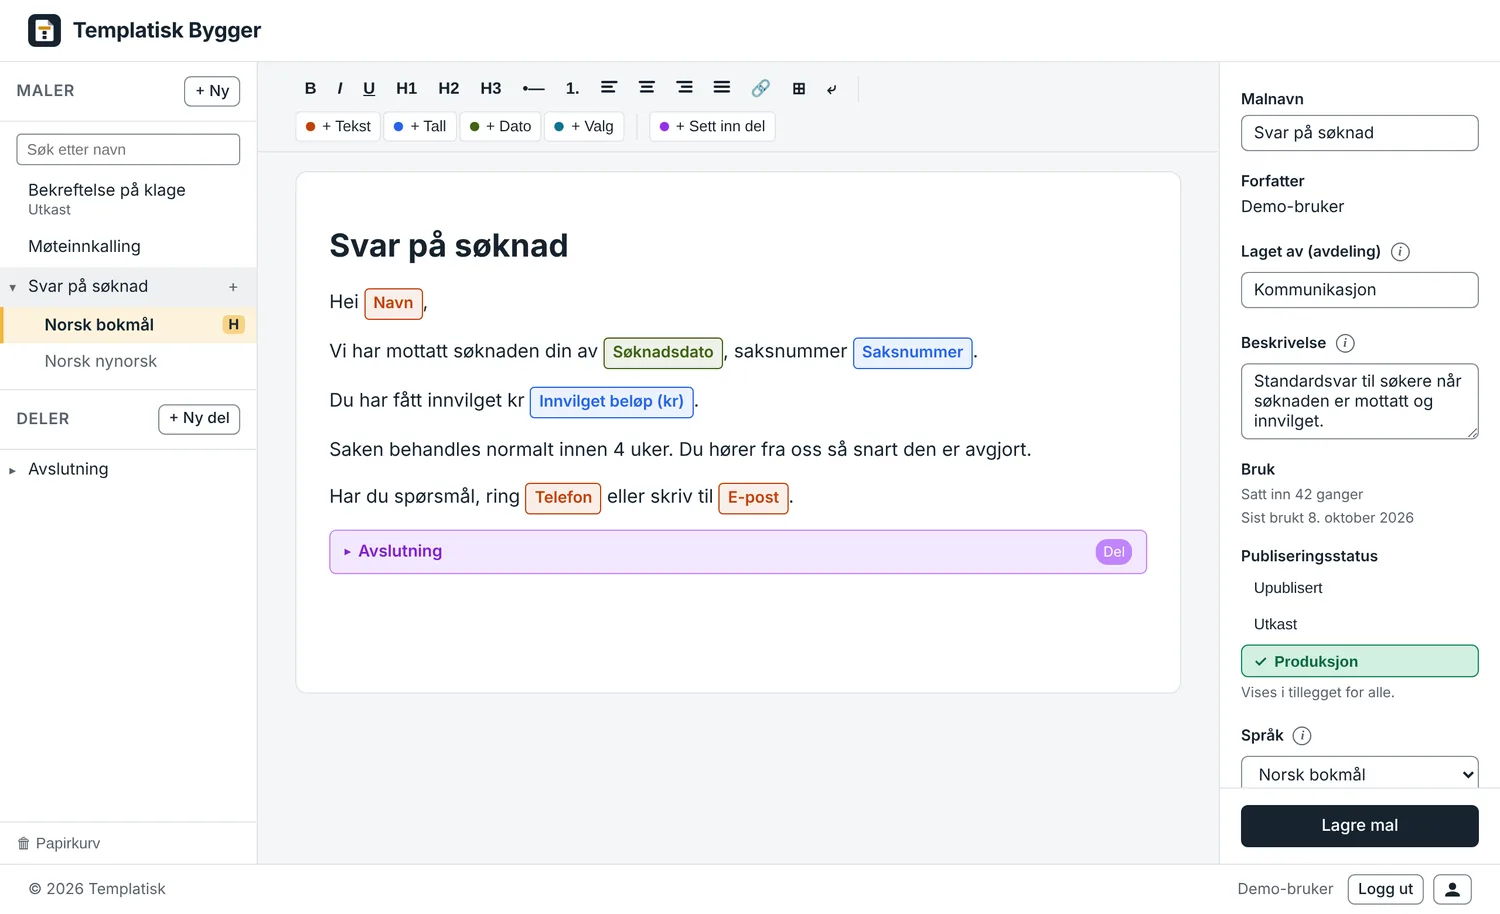
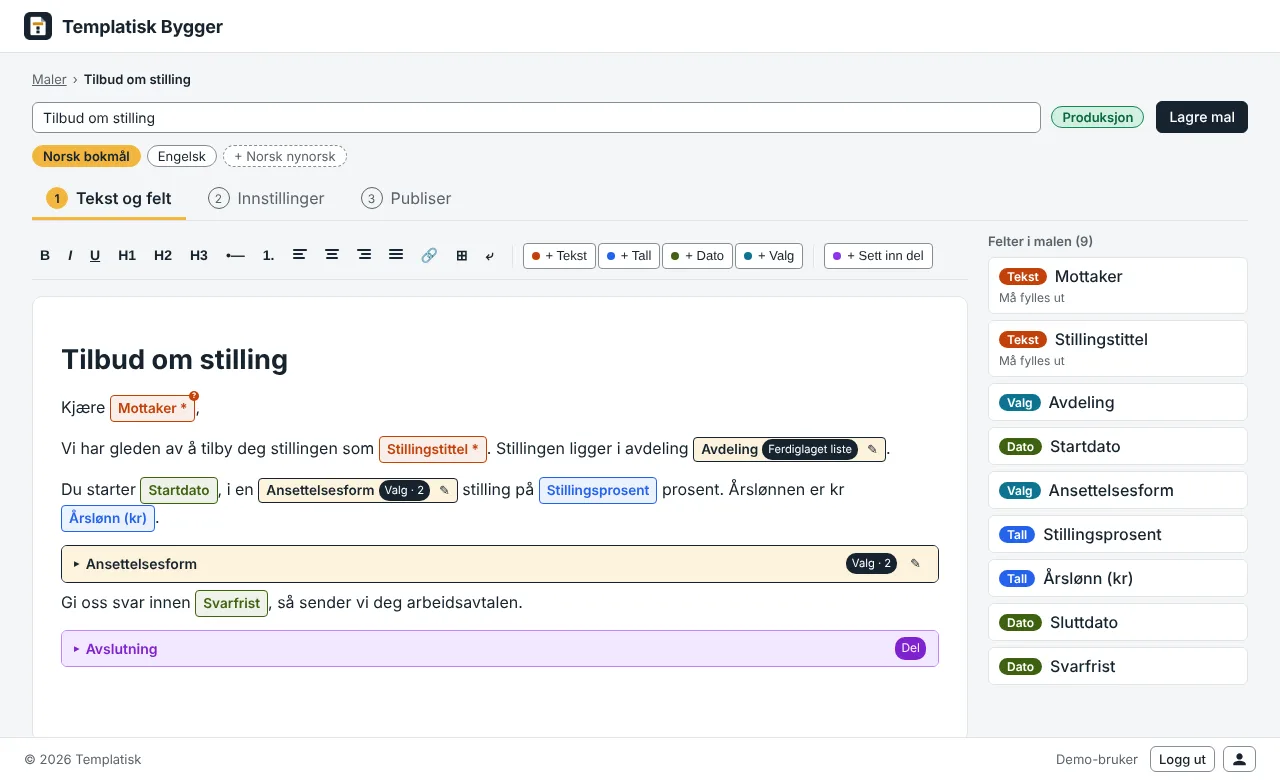
Fjern «Hva dere får», nye skjermbilder og én hero-setning mindre
Claude-Session: https://claude.ai/code/session_01QApeSyKnYLuamSbF5VTDjk

diff --git a/index.html b/index.html
@@ -62,7 +62,6 @@
             <a class="btn" href="demo/">Prøv demoen</a>
             <a class="btn ghost" href="mailto:kontakt@templatisk.no?subject=Avtal%20en%20prat%20om%20Templatisk">Avtal en prat</a>
           </div>
-          <p class="hero-note">En prat er en demo der vi prøver standardtekstene deres i Templatisk og svarer på spørsmål.</p>
         </div>
 
         <section class="mock" aria-label="Prøv selv: fyll ut feltene og sett inn teksten i dokumentet">
@@ -182,38 +181,6 @@
         <div class="step">
           <h3>Sett inn i Word eller Outlook</h3>
           <p>Saksbehandleren klikker <strong>Maler</strong> på Hjem-fanen, velger malen, fyller ut feltene og klikker <strong>Sett inn</strong>. Fungerer på PC, Mac og nett.</p>
-        </div>
-      </div>
-    </div>
-  </section>
-
-  <section class="block" id="nytte">
-    <div class="wrap">
-      <h2>Hva dere får</h2>
-      <div class="features">
-        <div class="feature">
-          <h3>Utfylling i skjema</h3>
-          <p>Påkrevde felt må fylles ut, og valglister begrenser svarene til alternativene dere har godkjent.</p>
-        </div>
-        <div class="feature">
-          <h3>Gjenbrukbare avsnitt</h3>
-          <p>Skriv et avsnitt én gang og bruk det i mange maler. Endringer oppdaterer alle malene.</p>
-        </div>
-        <div class="feature">
-          <h3>Flere språk i samme mal</h3>
-          <p>Bokmål, nynorsk og engelsk. Saksbehandleren velger språk ved innsetting.</p>
-        </div>
-        <div class="feature">
-          <h3>Roller</h3>
-          <p>Saksbehandlere setter inn maler, skribenter lager dem. Rollene styrer dere i Entra.</p>
-        </div>
-        <div class="feature">
-          <h3>Versjoner og papirkurv</h3>
-          <p>Hent fram en av de ti siste versjonene. Slettede maler havner i papirkurven.</p>
-        </div>
-        <div class="feature">
-          <h3>Hendelseslogg</h3>
-          <p>Administratorer ser hvem som har logget inn, og hvem som har endret eller slettet maler.</p>
         </div>
       </div>
     </div>

diff --git a/demo/index.html b/demo/index.html
@@ -42,11 +42,11 @@
       <div class="mobile-shots">
         <p>Slik ser det ut. Eksemplene er laget med fiktive data.</p>
         <figure>
-          <img src="../screenshots/builder.webp" width="1500" height="914" loading="lazy" alt="Malbyggeren i nettleseren. Malen «Svar på søknad» er åpen i editoren med utfyllingsfeltene Navn, Søknadsdato, Saksnummer og Innvilget beløp i teksten, og en gjenbrukbar del kalt Avslutning nederst. Til høyre vises malnavn, forfatter, beskrivelse og publiseringsstatus." />
+          <img src="../screenshots/builder.webp" width="1280" height="780" loading="lazy" alt="Malbyggeren i nettleseren. Malen «Tilbud om stilling» er åpen i editoren, med utfyllingsfeltene Mottaker, Stillingstittel, Startdato og Årslønn i teksten og en gjenbrukbar del kalt Avslutning nederst. Til høyre vises listen over feltene i malen." />
           <figcaption>Malbyggeren: skriv malen og sett inn felt og gjenbrukbare deler.</figcaption>
         </figure>
         <figure>
-          <img src="../screenshots/addin.webp" width="760" height="1400" loading="lazy" alt="Tillegget i Word og Outlook med skjemaet for malen «Svar på søknad». Feltene Navn, Søknadsdato, Saksnummer, Innvilget beløp og Telefon er fylt ut, og språket er satt til norsk bokmål." />
+          <img src="../screenshots/addin.webp" width="760" height="2000" loading="lazy" alt="Tillegget i Word og Outlook med skjemaet for malen «Tilbud om stilling». Feltene Mottaker og Stillingstittel er fylt ut, og språket er satt til norsk bokmål." />
           <figcaption>Tillegget: saksbehandleren fyller ut skjemaet og setter inn teksten.</figcaption>
         </figure>
       </div>
